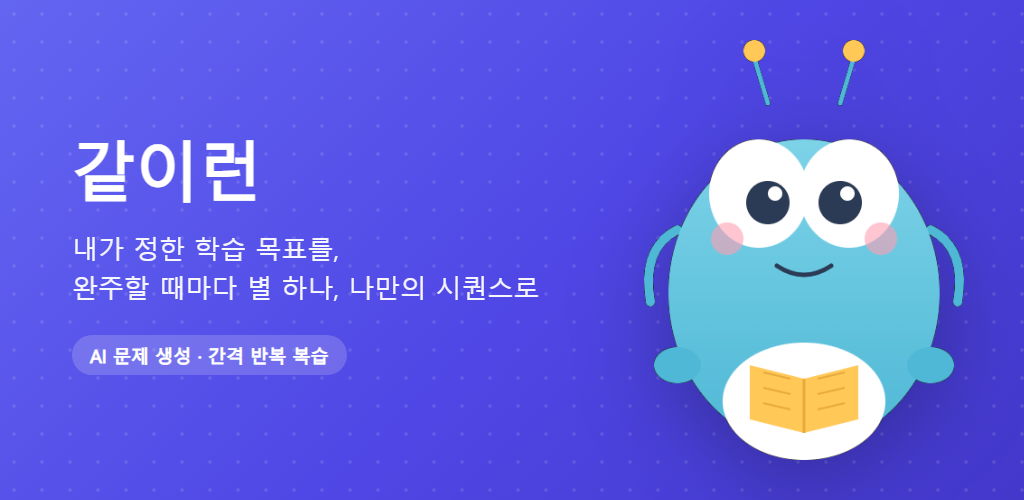
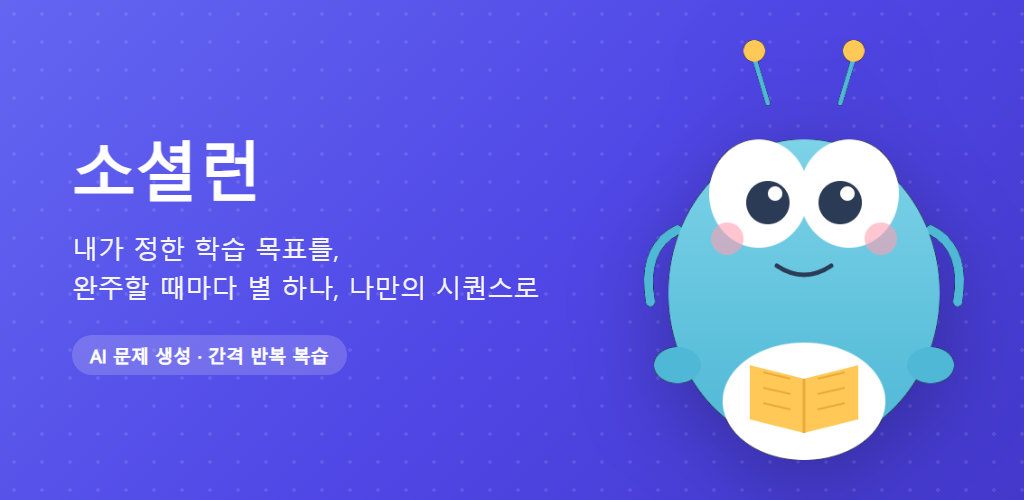
소셜런으로 재리브랜딩 + Android 패키지 ID 변경
F-90: 서명 키 생성 중 이름을 다시 검토(위드런/아이런/Learners Hi 순서로
검토 후 전부 기존 브랜드와 충돌해 기각) — 최종 "소셜런"으로 확정, 표시
이름 전면 교체.

패키지 ID가 Play 스토어 앱 URL에 노출된다는 점 때문에, 개인 계정명이
담긴 com.ehddn5252.study5min을 com.sociallearnapp.app으로 변경(등록
전인 지금이 마지막 변경 시점). assetlinks.json도 함께 갱신.

twa-manifest.json의 shortcuts iconUrl 필드를 최신 bubblewrap이 요구하는
chosenIconUrl로 수정 — init 실패의 실제 원인이었음.

Changed region(s): [[0.0625, 0.27, 0.1875, 0.42]]

diff --git a/src/screens/PrivacyPolicyScreen.tsx b/src/screens/PrivacyPolicyScreen.tsx
@@ -23,7 +23,7 @@ export default function PrivacyPolicyScreen() {
 
         <p className="text-sm text-gray-500 mb-6">
           시행일: {EFFECTIVE_DATE}<br />
-          "같이런"(이하 "서비스")은 이용자의 개인정보를 아래와 같이 수집·이용합니다.
+          "소셜런"(이하 "서비스")은 이용자의 개인정보를 아래와 같이 수집·이용합니다.
         </p>
 
         <section className="mb-6">
@@ -78,7 +78,7 @@ export default function PrivacyPolicyScreen() {
             아래 이메일로 삭제를 요청해주세요. 요청 확인 후 지체 없이 삭제해드립니다.
           </p>
           <a
-            href={`mailto:${SUPPORT_EMAIL}?subject=${encodeURIComponent('[같이런] 계정 및 데이터 삭제 요청')}&body=${encodeURIComponent('가입에 사용한 이메일 주소를 알려주시면 확인 후 삭제해드립니다.\n\n')}`}
+            href={`mailto:${SUPPORT_EMAIL}?subject=${encodeURIComponent('[소셜런] 계정 및 데이터 삭제 요청')}&body=${encodeURIComponent('가입에 사용한 이메일 주소를 알려주시면 확인 후 삭제해드립니다.\n\n')}`}
             className="inline-block mt-2 text-sm font-medium text-[var(--accent-600)] hover:underline"
           >
             계정·데이터 삭제 요청하기 →

diff --git a/src/utils/shareCard.ts b/src/utils/shareCard.ts
@@ -38,7 +38,7 @@ export async function generateShareCard(data: ShareCardData): Promise<Blob> {
   ctx.fill();
   ctx.fillStyle = '#ffffff';
   ctx.font = 'bold 16px sans-serif';
-  ctx.fillText('같이런', 60, 63);
+  ctx.fillText('소셜런', 60, 63);
 
   // main emoji
   ctx.font = '72px sans-serif';
@@ -112,11 +112,11 @@ function buildShareText(data: ShareCardData): string {
 
 export async function shareOrDownload(data: ShareCardData): Promise<void> {
   const blob = await generateShareCard(data);
-  const file = new File([blob], '같이런_달성.png', { type: 'image/png' });
+  const file = new File([blob], '소셜런_달성.png', { type: 'image/png' });
 
   if (navigator.canShare?.({ files: [file] })) {
     await navigator.share({
-      title: '같이런 달성!',
+      title: '소셜런 달성!',
       text: buildShareText(data),
       files: [file],
     });
@@ -127,7 +127,7 @@ export async function shareOrDownload(data: ShareCardData): Promise<void> {
   const url = URL.createObjectURL(blob);
   const a = document.createElement('a');
   a.href = url;
-  a.download = '같이런_달성.png';
+  a.download = '소셜런_달성.png';
   a.click();
   URL.revokeObjectURL(url);
 }

diff --git a/src/components/RouteAnnouncer.tsx b/src/components/RouteAnnouncer.tsx
@@ -27,9 +27,9 @@ export default function RouteAnnouncer() {
       const label = heading.textContent?.trim();
       if (!label || label === lastAnnouncedRef.current) return;
       lastAnnouncedRef.current = label;
-      // 로그인 화면처럼 h1 자체가 이미 브랜드명("같이런")이면 접미사를 붙이지 않는다 —
-      // 안 그러면 "같이런 · 같이런"처럼 중복된 탭 제목이 된다.
-      document.title = label === '같이런' ? label : `${label} · 같이런`;
+      // 로그인 화면처럼 h1 자체가 이미 브랜드명("소셜런")이면 접미사를 붙이지 않는다 —
+      // 안 그러면 "소셜런 · 소셜런"처럼 중복된 탭 제목이 된다.
+      document.title = label === '소셜런' ? label : `${label} · 소셜런`;
       if (liveRegionRef.current) {
         liveRegionRef.current.textContent = label;
       }

diff --git a/src/screens/SettingsScreen.tsx b/src/screens/SettingsScreen.tsx
@@ -394,7 +394,7 @@ export default function SettingsScreen() {
         <div className="bg-white rounded-2xl shadow-sm border border-gray-100 p-5 mb-4">
           <h2 className="font-semibold text-gray-900 mb-3">고객센터</h2>
           <a
-            href={`mailto:${SUPPORT_EMAIL}?subject=${encodeURIComponent('[같이런] 문의')}&body=${encodeURIComponent('아래에 문의 내용을 자유롭게 작성해주세요.\n\n')}`}
+            href={`mailto:${SUPPORT_EMAIL}?subject=${encodeURIComponent('[소셜런] 문의')}&body=${encodeURIComponent('아래에 문의 내용을 자유롭게 작성해주세요.\n\n')}`}
             className="w-full flex items-center justify-between py-2 text-sm text-gray-700 hover:text-[var(--accent-600)] transition-colors"
           >
             <span>문의하기</span>

diff --git a/src/screens/LoginScreen.tsx b/src/screens/LoginScreen.tsx
@@ -32,7 +32,7 @@ export default function LoginScreen() {
   return (
     <div className="min-h-screen bg-[var(--page-bg)] flex items-center justify-center px-4">
       <div className="w-full max-w-sm bg-white rounded-2xl shadow-sm border border-gray-100 p-8 text-center">
-        <h1 className="text-2xl font-bold text-gray-900 mb-2">같이런</h1>
+        <h1 className="text-2xl font-bold text-gray-900 mb-2">소셜런</h1>
         <p className="text-gray-500 text-sm mb-8">
           목표만 정하면, 나만의 학습 시퀀스와 문제를 자동으로 만들어드려요.
         </p>

diff --git a/src/services/notification.ts b/src/services/notification.ts
@@ -166,13 +166,13 @@ async function showReminder(): Promise<void> {
   try {
     if ('serviceWorker' in navigator) {
       const reg = await navigator.serviceWorker.ready;
-      await reg.showNotification('같이런 알림', opts);
+      await reg.showNotification('소셜런 알림', opts);
       return;
     }
   } catch {
     // fall through
   }
-  new Notification('같이런 알림', opts);
+  new Notification('소셜런 알림', opts);
 }
 
 export function scheduleLocalReminder(time: string): void {

diff --git a/vite.config.ts b/vite.config.ts
@@ -9,8 +9,8 @@ export default defineConfig({
       registerType: 'autoUpdate',
       includeAssets: ['icon-192.png', 'icon-512.png'],
       manifest: {
-        name: '같이런',
-        short_name: '같이런',
+        name: '소셜런',
+        short_name: '소셜런',
         description: '내가 정한 목표를, 나만의 학습 시퀀스로 꾸준히',
         theme_color: '#6366f1',
         background_color: '#6366f1',

diff --git a/docs/play_store_assets/feature_graphic_render.html b/docs/play_store_assets/feature_graphic_render.html
@@ -71,7 +71,7 @@
   <div class="wrap">
     <div class="dots"></div>
     <div class="text">
-      <div class="title">같이런</div>
+      <div class="title">소셜런</div>
       <div class="tagline">내가 정한 학습 목표를,<br>완주할 때마다 별 하나, 나만의 시퀀스로</div>
       <div class="badge">AI 문제 생성 · 간격 반복 복습</div>
     </div>

diff --git a/docs/play_store_assets/feature_graphic_source.html b/docs/play_store_assets/feature_graphic_source.html
@@ -71,7 +71,7 @@
   <div class="wrap">
     <div class="dots"></div>
     <div class="text">
-      <div class="title">같이런</div>
+      <div class="title">소셜런</div>
       <div class="tagline">내가 정한 학습 목표를,<br>완주할 때마다 별 하나, 나만의 시퀀스로</div>
       <div class="badge">AI 문제 생성 · 간격 반복 복습</div>
     </div>

diff --git a/docs/feature_definition.md b/docs/feature_definition.md
@@ -1803,6 +1803,24 @@
 - [x] `npm run build` 통과.
 - [ ] Play Console에 아직 등록 전이라 실제 스토어 노출 이름 충돌 여부는 심사 전까지 최종 확인 불가(사전에 Google 검색으로 확인한 것이 전부).
 
+---
+
+### F-90: "소셜런"으로 재리브랜딩 + Android 패키지 ID 변경
+
+**한 줄 설명:** 표시 이름을 "같이런"에서 "소셜런"으로 다시 바꾸고, 아직 미등록 상태인 Android 패키지 ID를 개인 계정명이 노출되는 `com.ehddn5252.study5min`에서 `com.sociallearnapp.app`으로 변경한다.
+
+**배경:** 서명 키 생성 과정에서 "위드런"(실제로 같은 교육 카테고리 앱 `com.forwiz.withlearn`과 충돌), "아이런"(마라톤 브랜드 "아이런코리아"와 충돌 + "아이(어린이)"로 오독 위험), "Learners Hi"(발음이 기존 "러너스하이"/Runner's High 브랜드와 거의 동일)를 순서대로 검토·기각한 뒤 "소셜런"(Social+Learn/Run)으로 확정 — Google 검색으로 충돌 없음 확인. 같은 대화에서 패키지 ID 논의로 이어져, "Play 스토어 앱 URL에 패키지 ID가 그대로 노출된다"는 점을 짚자 사용자가 개인 식별자(`ehddn5252`, 실제 이메일 계정명과 동일)를 빼기로 결정. 패키지 ID는 스토어 등록 후 변경 불가하므로 등록 전인 지금이 마지막 변경 시점이었다.
+
+**시스템 처리**
+- 표시 이름 교체: F-89와 동일한 파일 목록(`vite.config.ts`, `twa-manifest.json`, `LoginScreen.tsx`, `PrivacyPolicyScreen.tsx`, `SettingsScreen.tsx`, `notification.ts`, `shareCard.ts`, `RouteAnnouncer.tsx`, `README.md`, `docs/ceo_prompt.md`/`docs/planning_document.md`, `docs/PLAY_STORE_SUBMISSION.md`, 피처 그래픽) 전부 "소셜런"으로 재교체.
+- 패키지 ID 교체: `twa-manifest.json`의 `packageId`(`com.ehddn5252.study5min` → `com.sociallearnapp.app`)와 `signingKey.alias`(`study5min` → `sociallearn`), `public/.well-known/assetlinks.json`의 `package_name`을 동일하게 변경. 두 파일의 값은 반드시 정확히 일치해야 Digital Asset Link 검증이 통과한다(`docs/PLAY_STORE.md` 2-1 참고).
+- `android/twa-manifest.json`(bubblewrap 작업 사본)도 루트 파일과 동기화.
+
+**검증 조건**
+- [x] `npm run build` 통과.
+- [x] `grep -rl "com.ehddn5252.study5min"` 결과가 이력 설명 문구(`docs/ceo_prompt.md`의 변경 사유 서술) 하나만 남고 `twa-manifest.json`/`assetlinks.json`/`docs/PLAY_STORE.md`의 실제 값에서는 전부 교체됨을 확인.
+- [ ] 이 시점까지 `android/signing.keystore`가 아직 생성되지 않아(사용자가 `bubblewrap init` 진행 중), 새 패키지 ID로 실제 서명 키 생성·AAB 빌드·assetlinks 검증까지는 확인하지 못함 — 다음 단계에서 반드시 재확인 필요.
+
 | 점검 항목 | 결과 |
 |-----------|------|
 | 기획 문서의 모든 기능 영역이 커버됐나? | 목표 관리(F-01~F-06), 학습(F-07~F-10), 테스트(F-11~F-13), 독려/동기부여(F-14~F-17) 모두 커버 완료 |

diff --git a/README.md b/README.md
@@ -1,4 +1,4 @@
-# 같이런 (구 "학습 보관함", "5분 학습", 저장소명: 5minuate_study)
+# 소셜런 (구 "같이런", "학습 보관함", "5분 학습", 저장소명: 5minuate_study)
 
 듀오링고에서 영감받아 만든 PWA — 내가 정한 학습 목표를 AI가 매일 분량으로 쪼갠 **시퀀스(sequence)** 로 제공해, 자격증·어학·개발 공부를 꾸준히 이어가게 돕습니다.
 
@@ -108,7 +108,7 @@ npm run build
 npx wrangler deploy
 ```
 
-배포 URL·Cloudflare Worker 이름(`5minuatestudy`)·저장소 이름은 표시 이름 리브랜딩("같이런")과 무관하게 그대로 유지합니다 — 이미 설치된 PWA 사용자의 접속이 끊기지 않도록 하기 위함입니다.
+배포 URL·Cloudflare Worker 이름(`5minuatestudy`)·저장소 이름은 표시 이름 리브랜딩("소셜런")과 무관하게 그대로 유지합니다 — 이미 설치된 PWA 사용자의 접속이 끊기지 않도록 하기 위함입니다.
 
 ### Supabase 스키마
 `supabase/migrations/` 폴더의 SQL을 **파일명 순서대로** Supabase SQL Editor에서 실행 (service_role 권한 필요, 이 저장소의 anon key로는 실행 불가). 모두 재실행해도 안전하게 작성되어 있음.
